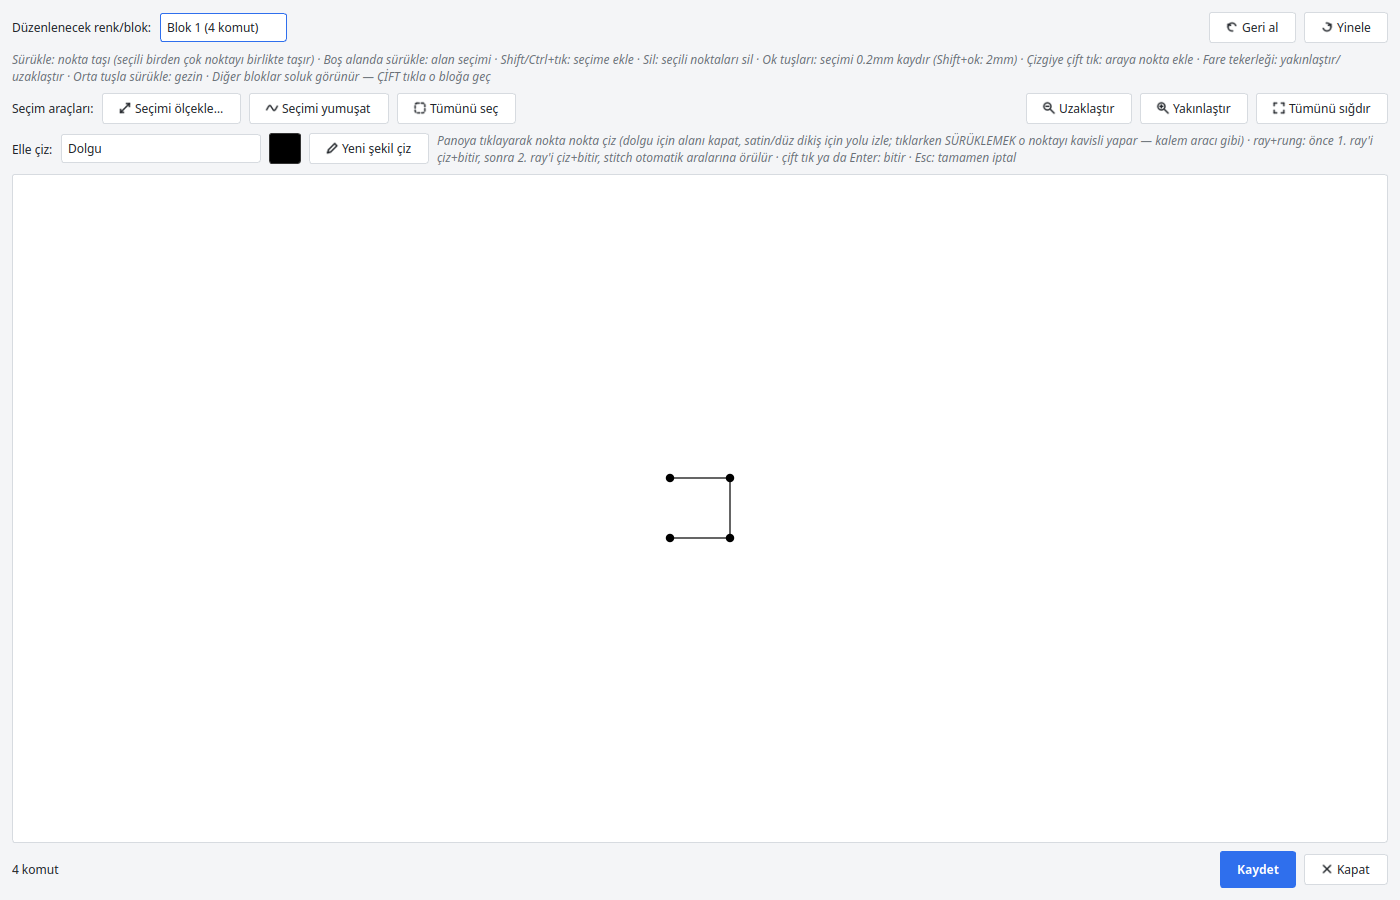
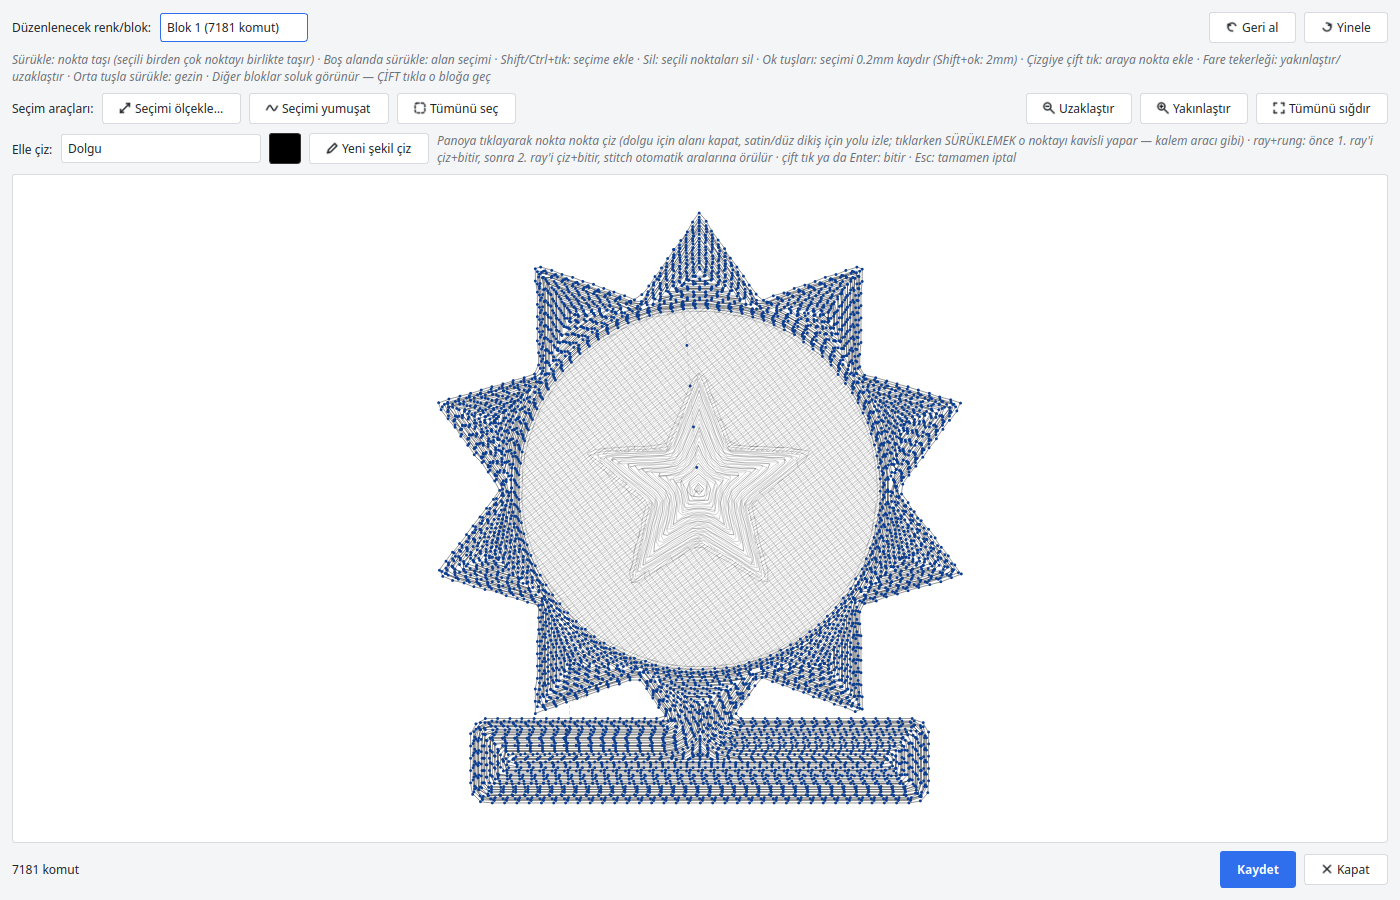
Ekran görüntülerini güncelle: nokta editörü + 3D önizleme

Changed region(s): [[0.3071, 0.2489, 0.7064, 0.9022], [0.1536, 0.0, 0.1843, 0.0622], [0.0, 0.9644, 0.0614, 0.9956]]

diff --git a/README.md b/README.md
@@ -44,7 +44,11 @@ Birkaç şey daha:
 - Tasarımı bir tişört/gömlek kalıbının neresine koyacağınızı gösteren
   görsel bir yerleşim rehberi.
 - Son dikişi gerçek bir kumaş yüzeyine sarıp birkaç açıdan gösteren 3D
-  önizleme.
+  önizleme — tasarım gerçekten dikilmeden önce kıyafetin üstünde nasıl
+  duracağını görürsünüz.
+
+  ![3D kıyafet önizleme](docs/screenshots/3d-onizleme.png)
+
 - Üretilen dikişi nokta nokta düzenleyebileceğiniz, elle şekil de
   çizebildiğiniz ayrı bir editör.
 - Birden fazla aday ayar deneyip dikiş bütçenize sığan en benzer sonucu
